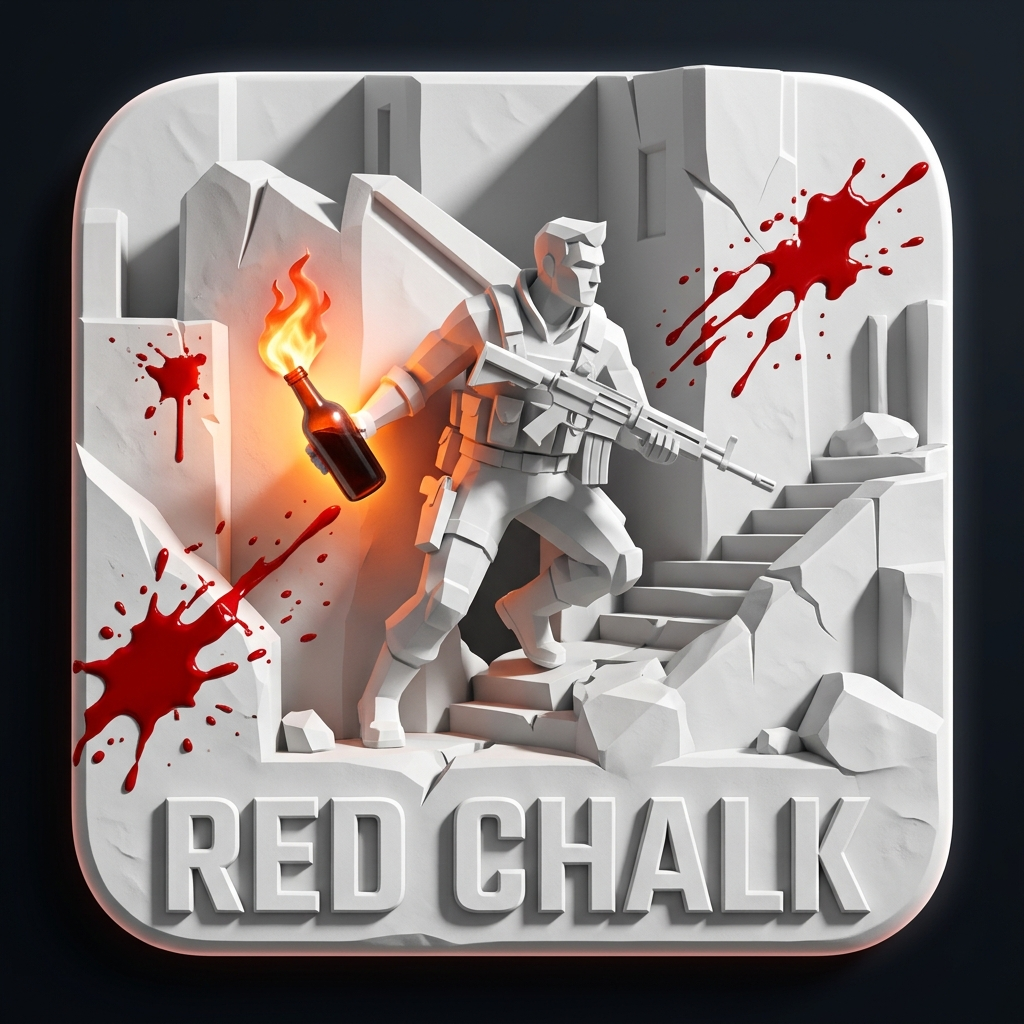
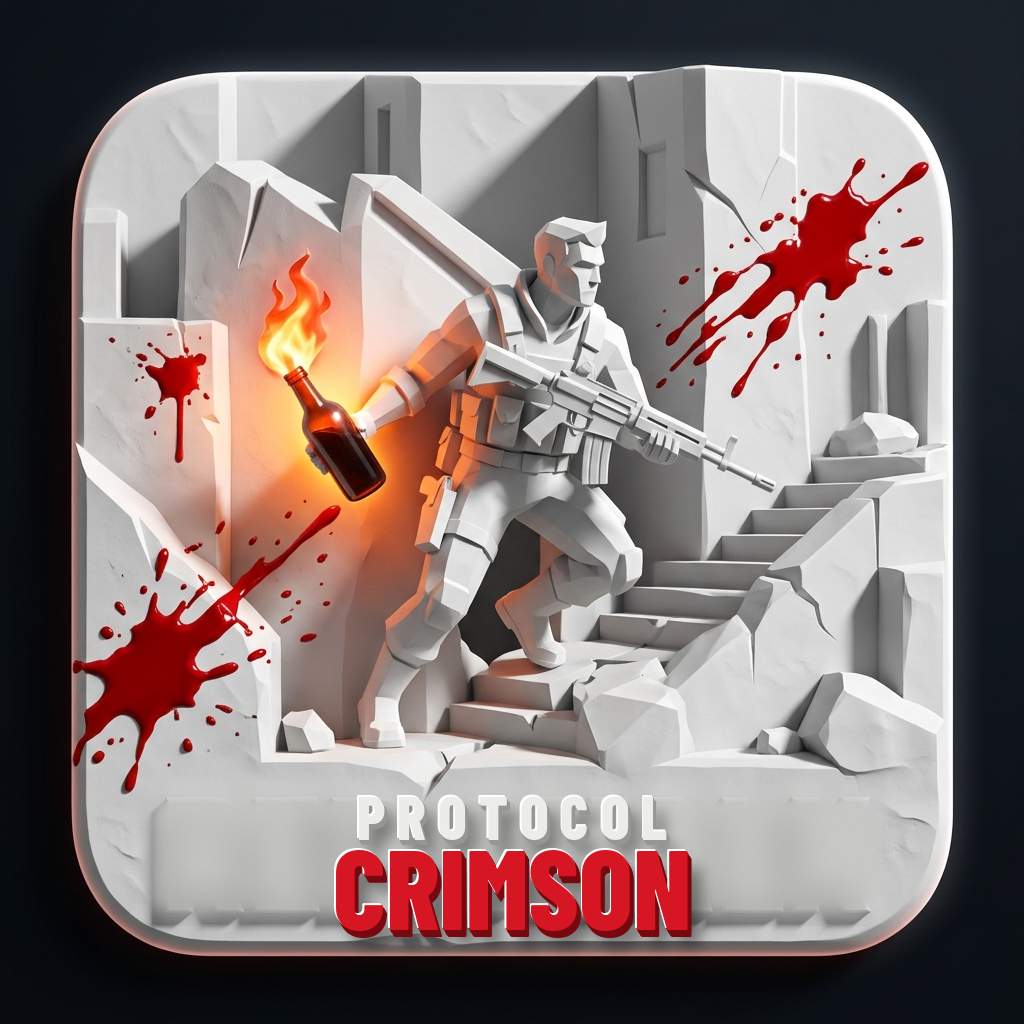
Rename everywhere to Protocol: Crimson; updater survives local changes
- New app icon text (PROTOCOL / CRIMSON) on the existing artwork
- Android package id com.protocolcrimson.game, export ProtocolCrimson.apk
- run_game.bat and the spec doc no longer use the old names
- update_and_play.bat stashes local changes / Godot-generated files that would
  block the pull (they stay in git stash) and prints the version it is on

Claude-Session: https://claude.ai/code/session_01BT3vCbPdC4aKLDQCTu5m96

Changed region(s): [[0.125, 0.75, 0.8438, 0.9375]]

diff --git a/monochrome_tactical_extraction_build_plan.md b/monochrome_tactical_extraction_build_plan.md
@@ -1,4 +1,4 @@
-# Project Specification: PROTOCOL: CRIMSON (Working Title)
+# Project Specification: PROTOCOL: CRIMSON
 
 **Engine:** Godot 4.x (Universal Render Pipeline / Forward+ or Mobile Renderer)  
 **Primary Target Platform:** Android (API 33+, 60 FPS target on mid-range devices)  
